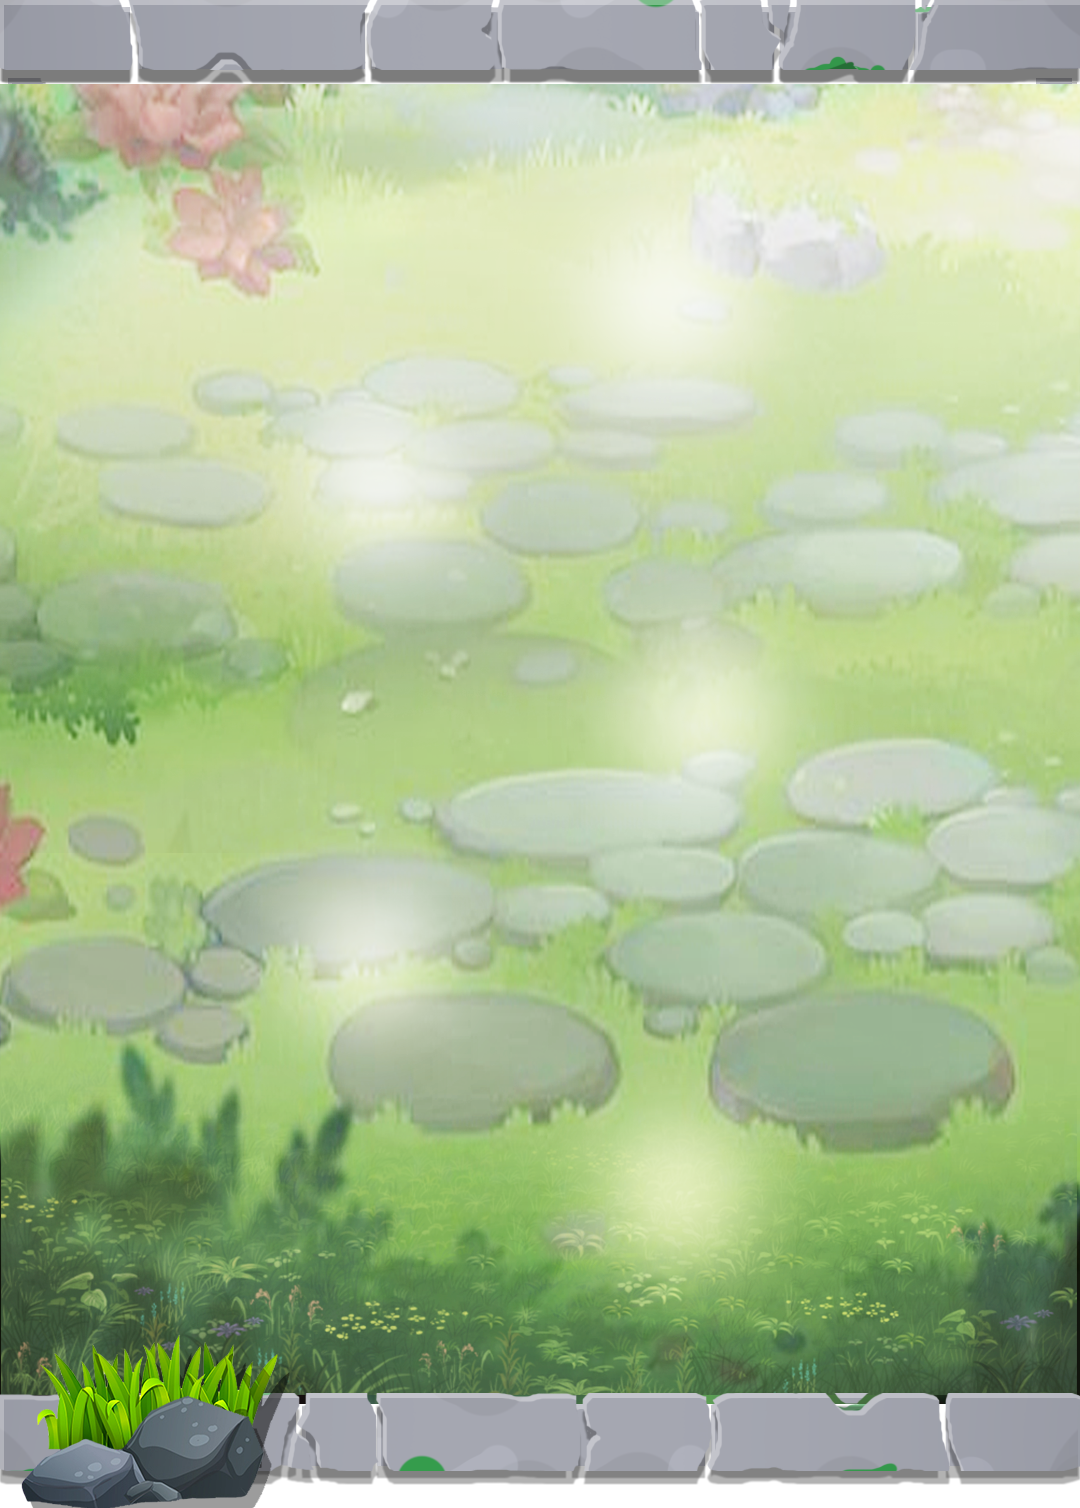
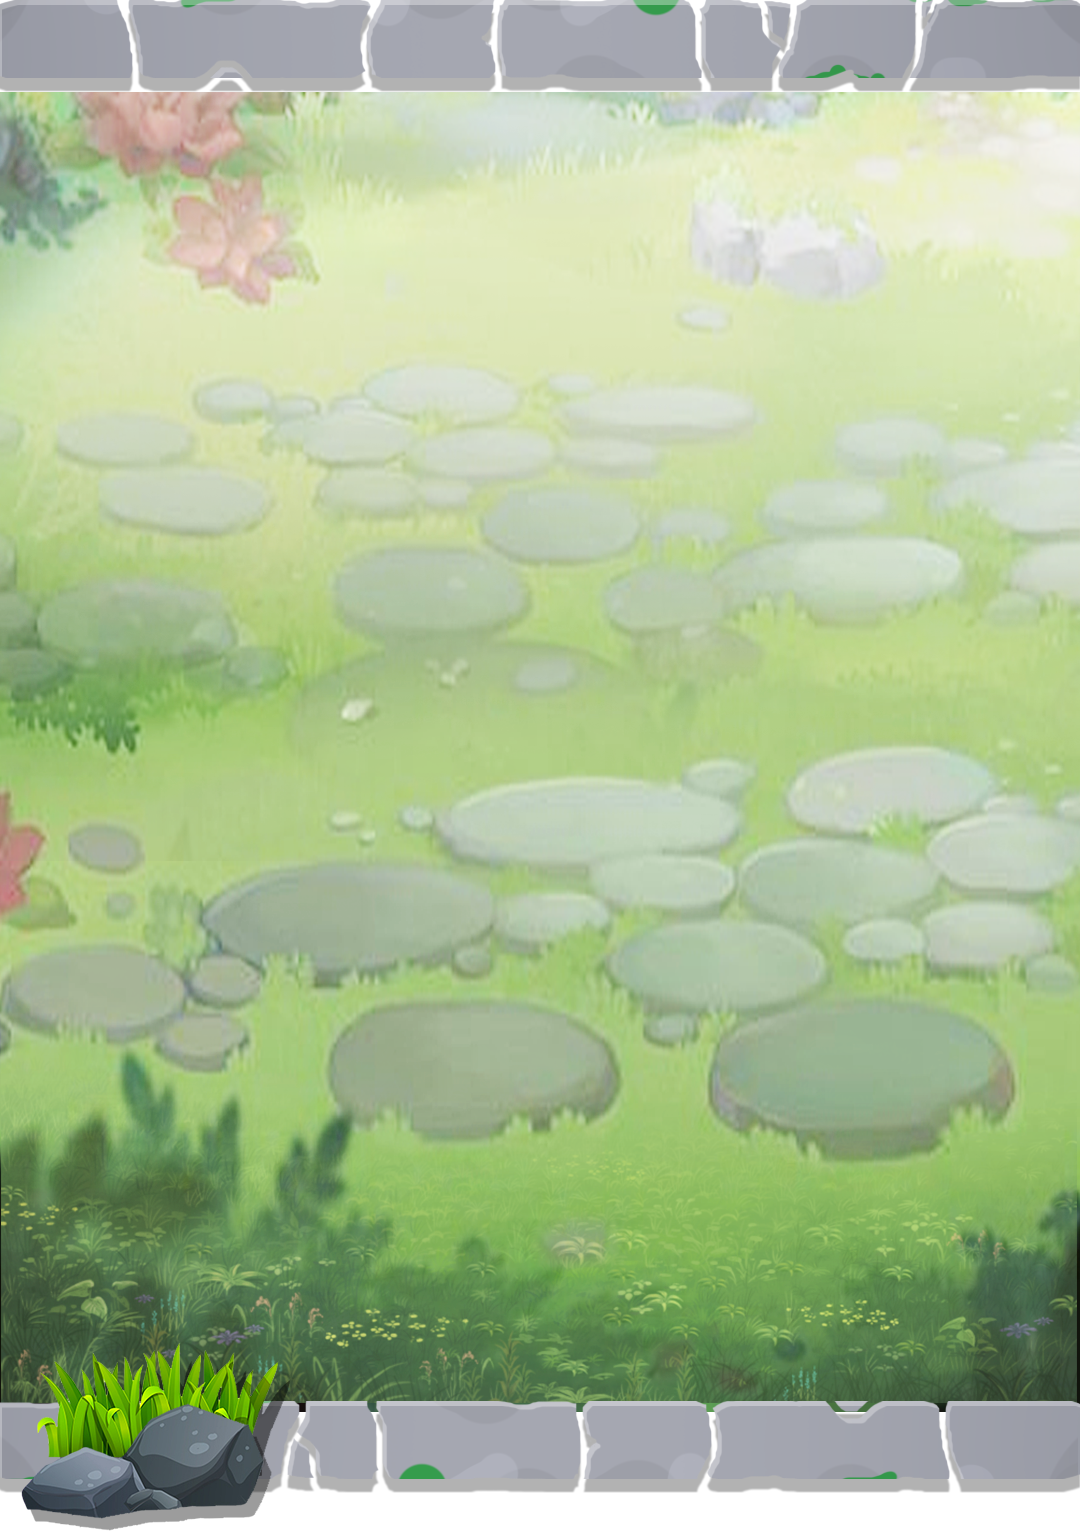
新增: 采集页面背景图

diff --git a/app/constants/_source.js b/app/constants/_source.js
@@ -82,6 +82,9 @@ const _images = {
         { name: 'YanJiang', source: require('../../assets/collect/bg/YanJiang.png') },
         { name: 'XueDi', source: require('../../assets/collect/bg/XueDi.png') },
         { name: 'CaoDi', source: require('../../assets/collect/bg/CaoDi.png') },
+        { name: 'CaoDi_2', source: require('../../assets/collect/bg/CaoDi_2.png') },
+        { name: 'CaoDi_3', source: require('../../assets/collect/bg/CaoDi_3.png') },
+        { name: 'CaoDi_4', source: require('../../assets/collect/bg/CaoDi_4.png') },
         { name: 'HuangTu_1', source: require('../../assets/collect/bg/HuangTu_1.png') },
         { name: 'HuangTu_2', source: require('../../assets/collect/bg/HuangTu_2.png') },
         { name: 'HuangTu_3', source: require('../../assets/collect/bg/HuangTu_3.png') },

diff --git a/app/pages/CollectPage.js b/app/pages/CollectPage.js
@@ -469,7 +469,7 @@ const CollectPage = (props) => {
             <AntDesign name={'left'} size={30} />
           </TouchableWithoutFeedback>
         </View>
-        <FastImage style={{ width: px2pd(1080), height: px2pd(1508), overflow: 'visible', justifyContent: 'center', alignItems: 'center' }} source={getCollectBackgroundImage(config.background).source}>
+        <FastImage style={{ width: px2pd(1080), height: px2pd(1531), overflow: 'visible', justifyContent: 'center', alignItems: 'center' }} source={getCollectBackgroundImage(config.background).source}>
           <View style={styles.mapContainer}>
             {grids}
             <AnimationLayer collectId={props.collectId} />
